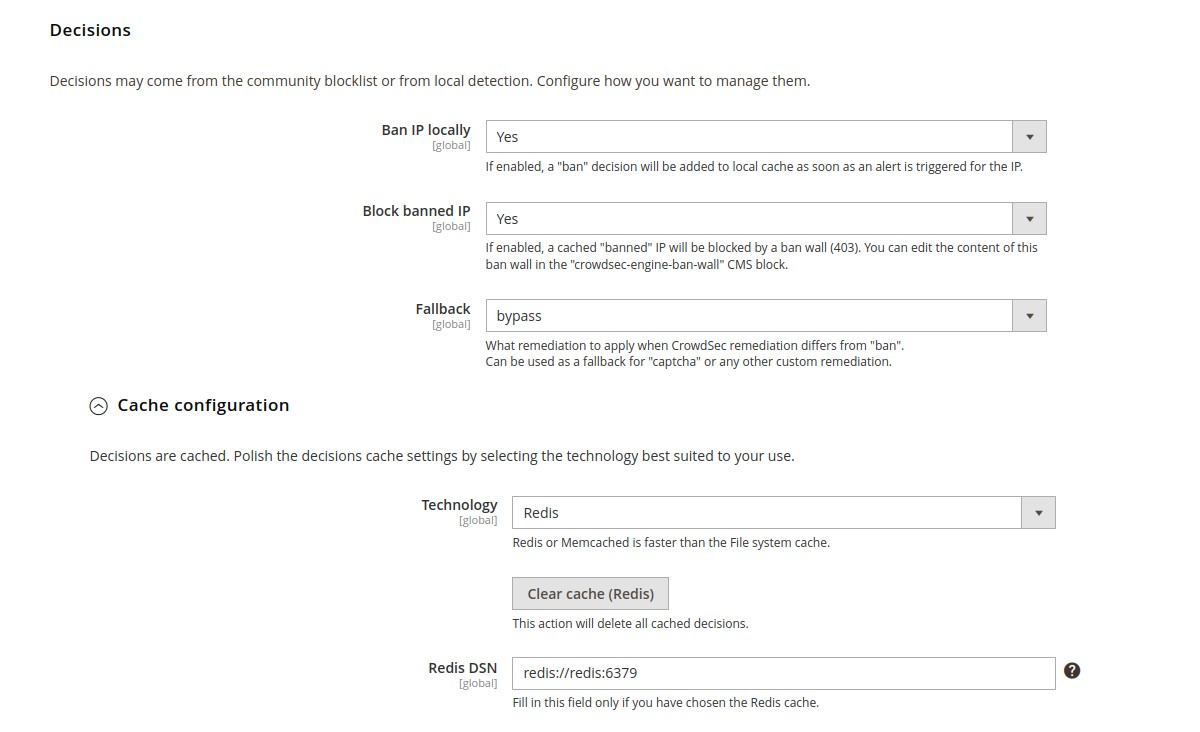
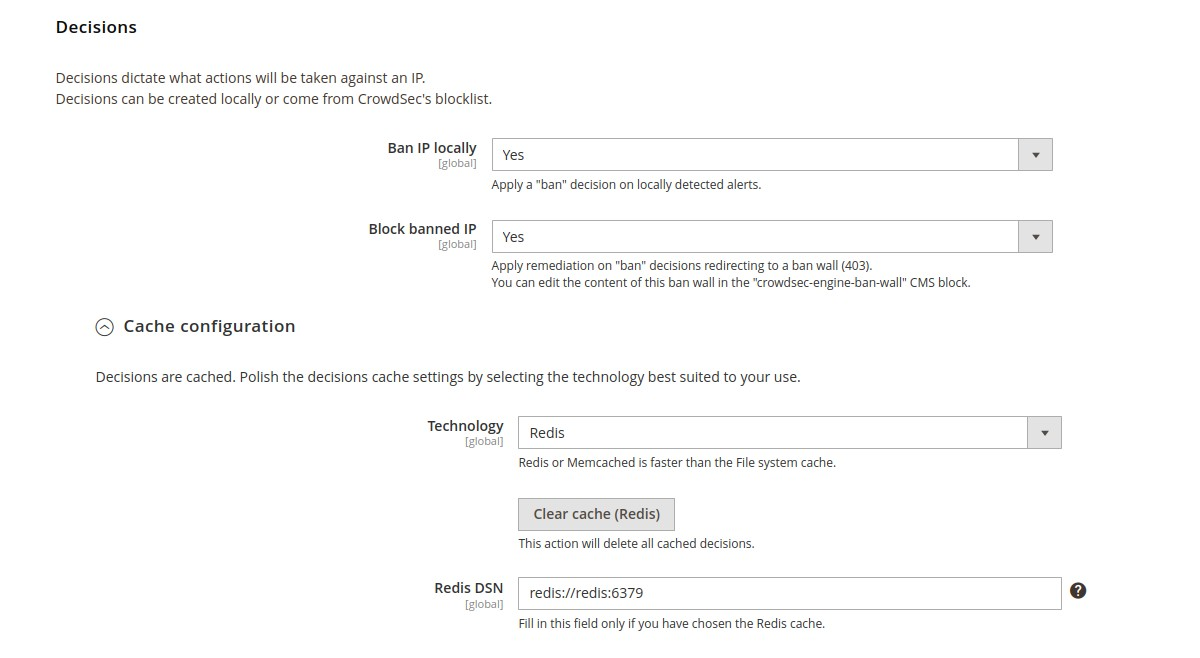
feat(*): Remove fallback setting and prepare release 1.0.0

diff --git a/Test/EndToEnd/__tests__/reports.test.ts b/Test/EndToEnd/__tests__/reports.test.ts
@@ -9,28 +9,23 @@ import {
 } from "../helpers/constants";
 
 test.describe("Reports page", () => {
-  test("can set default config", async ({
-    adminCrowdSecSecurityConfigPage,
-  }) => {
-    await adminCrowdSecSecurityConfigPage.navigateTo();
-    await adminCrowdSecSecurityConfigPage.setDefaultConfig();
-  });
   test("can see default settings", async ({
     adminCrowdSecSecurityReportPage,
+    adminCrowdSecSecurityConfigPage,
     page,
     runActionPage,
   }) => {
     await runActionPage.clearCache();
+    await adminCrowdSecSecurityConfigPage.navigateTo();
+    await adminCrowdSecSecurityConfigPage.setDefaultConfig();
     await adminCrowdSecSecurityReportPage.navigateTo();
     await expect(
       page.locator("#crowdsec-engine-remediation-metrics")
-    ).toHaveText(/Ban IP locally setting is enabled/);
+    ).toHaveText(/Ban IP locally enabled/);
     await expect(
       page.locator("#crowdsec-engine-remediation-metrics")
-    ).toHaveText(/Block banned IP setting is enabled/);
-    await expect(
-      page.locator("#crowdsec-engine-remediation-metrics")
-    ).toHaveText(/Fallback setting is bypass/);
+    ).toHaveText(/Block banned IP enabled/);
+
     // Local decision should be 0
     await expect(
       page.locator("#crowdsec-engine-metrics tbody tr:first-child td.count")
@@ -61,21 +56,14 @@ test.describe("Reports page", () => {
       .getByRole("combobox", { name: "[GLOBAL] Block banned IP" })
       .selectOption("0");
 
-    await page
-      .getByRole("combobox", { name: "[GLOBAL] Fallback" })
-      .selectOption("ban");
-
     await adminCrowdSecSecurityConfigPage.saveConfig();
     await adminCrowdSecSecurityReportPage.navigateTo();
     await expect(
       page.locator("#crowdsec-engine-remediation-metrics")
-    ).toHaveText(/Ban IP locally setting is disabled/);
+    ).toHaveText(/Ban IP locally disabled/);
     await expect(
       page.locator("#crowdsec-engine-remediation-metrics")
-    ).toHaveText(/Block banned IP setting is disabled/);
-    await expect(
-      page.locator("#crowdsec-engine-remediation-metrics")
-    ).toHaveText(/Fallback setting is ban/);
+    ).toHaveText(/Block banned IP disabled/);
   });
 
   test("can see count incrementation for local decision", async ({
@@ -91,9 +79,6 @@ test.describe("Reports page", () => {
       .getByRole("combobox", { name: "[GLOBAL] Block banned IP" })
       .selectOption("1");
 
-    await page
-      .getByRole("combobox", { name: "[GLOBAL] Fallback" })
-      .selectOption("bypass");
     await adminCrowdSecSecurityConfigPage.saveConfig();
     await adminCrowdSecSecurityReportPage.navigateTo();
     // Local decision should be 0
@@ -129,9 +114,6 @@ test.describe("Reports page", () => {
       .getByRole("combobox", { name: "[GLOBAL] Block banned IP" })
       .selectOption("1");
 
-    await page
-      .getByRole("combobox", { name: "[GLOBAL] Fallback" })
-      .selectOption("bypass");
     await adminCrowdSecSecurityConfigPage.saveConfig();
     await adminCrowdSecSecurityReportPage.navigateTo();
     // Community Blocklist decision should be 0
@@ -167,9 +149,6 @@ test.describe("Reports page", () => {
       .getByRole("combobox", { name: "[GLOBAL] Block banned IP" })
       .selectOption("1");
 
-    await page
-      .getByRole("combobox", { name: "[GLOBAL] Fallback" })
-      .selectOption("bypass");
     await adminCrowdSecSecurityConfigPage.saveConfig();
     await adminCrowdSecSecurityReportPage.navigateTo();
     // Third party blocklist decision should be 0
@@ -189,6 +168,42 @@ test.describe("Reports page", () => {
       page.locator("#crowdsec-engine-metrics tbody tr:last-child td.count")
     ).toHaveText("1");
     // Clear cache for next tests
+    await runActionPage.clearCache();
+  });
+
+  test("can see count incrementation for local decision with unhandled remediation", async ({
+    adminCrowdSecSecurityConfigPage,
+    adminCrowdSecSecurityReportPage,
+    runActionPage,
+    page,
+    homePage,
+  }) => {
+    // Reset all
+    await runActionPage.setForcedIp("");
+    await runActionPage.clearCache();
+    // Set config
+    await adminCrowdSecSecurityConfigPage.navigateTo();
+    await adminCrowdSecSecurityConfigPage.setDefaultConfig();
+    await adminCrowdSecSecurityReportPage.navigateTo();
+    // Local decision should be 0
+    await expect(
+      page.locator("#crowdsec-engine-metrics tbody tr:first-child td.count")
+    ).toHaveText("0");
+
+    // Simulate a "unhandled" decision for testIp1
+    await runActionPage.addDecision(testIp1, "unhandled", ORIGIN_CROWDSEC, 60);
+    await runActionPage.setForcedIp(testIp1);
+    // Home page should be accessible as default fallback is bypass
+    await homePage.navigateTo();
+    await expect(page.locator("body")).not.toHaveText(blockRegex);
+    await adminCrowdSecSecurityReportPage.navigateTo();
+    // Local decision should be 1
+    await expect(
+      page.locator("#crowdsec-engine-metrics tbody tr:first-child td.count")
+    ).toHaveText("1");
+
+    // Clear cache for next tests and reinit forced test ip
+    await runActionPage.setForcedIp("");
     await runActionPage.clearCache();
   });
 });

diff --git a/Test/EndToEnd/__tests__/config.test.ts b/Test/EndToEnd/__tests__/config.test.ts
@@ -1,6 +1,5 @@
 // @ts-check
-import { test, expect } from "../fixtures";
-import { testIp1, ORIGIN_CROWDSEC, blockRegex } from "../helpers/constants";
+import { test } from "../fixtures";
 
 test.describe("Extension configuration", () => {
   test.beforeEach(async ({ adminCrowdSecSecurityConfigPage }) => {
@@ -25,53 +24,5 @@ test.describe("Extension configuration", () => {
 
   test("should refresh cache", async ({ adminCrowdSecSecurityConfigPage }) => {
     await adminCrowdSecSecurityConfigPage.refreshCache();
-  });
-});
-
-test.describe("Fallback remediation setting", () => {
-  test("can see count incrementation for local decision with unhandled remediation", async ({
-    adminCrowdSecSecurityConfigPage,
-    adminCrowdSecSecurityReportPage,
-    runActionPage,
-    page,
-    homePage,
-  }) => {
-    // Reset all
-    await runActionPage.setForcedIp("");
-    await runActionPage.clearCache();
-    // Set config
-    await adminCrowdSecSecurityConfigPage.navigateTo();
-    await adminCrowdSecSecurityConfigPage.setDefaultConfig();
-    await adminCrowdSecSecurityReportPage.navigateTo();
-    // Local decision should be 0
-    await expect(
-      page.locator("#crowdsec-engine-metrics tbody tr:first-child td.count")
-    ).toHaveText("0");
-
-    // Simulate a "unhandled" decision for testIp1
-    await runActionPage.addDecision(testIp1, "unhandled", ORIGIN_CROWDSEC, 60);
-    await runActionPage.setForcedIp(testIp1);
-    // Home page should be accessible as default fallback is bypass
-    await homePage.navigateTo();
-    await expect(page.locator("body")).not.toHaveText(blockRegex);
-    await adminCrowdSecSecurityReportPage.navigateTo();
-    // Local decision should be 1
-    await expect(
-      page.locator("#crowdsec-engine-metrics tbody tr:first-child td.count")
-    ).toHaveText("1");
-
-    await adminCrowdSecSecurityConfigPage.navigateTo();
-    await page
-      .getByRole("combobox", { name: "[GLOBAL] Fallback" })
-      .selectOption("ban");
-
-    await adminCrowdSecSecurityConfigPage.saveConfig(false);
-    // Home page should be blocked as fallback is now ban
-    await homePage.navigateTo(false);
-    await expect(page.locator("body")).toHaveText(blockRegex);
-
-    // Clear cache for next tests and reinit forced test ip
-    await runActionPage.setForcedIp("");
-    await runActionPage.clearCache();
   });
 });

diff --git a/Test/EndToEnd/pageObjects/luma/admin/crowdsec-security-config.ts b/Test/EndToEnd/pageObjects/luma/admin/crowdsec-security-config.ts
@@ -36,10 +36,6 @@ export default class CrowdSecSecurityConfigPage {
       .selectOption("1");
 
     await this.page
-      .getByRole("combobox", { name: "[GLOBAL] Fallback" })
-      .selectOption("bypass");
-
-    await this.page
       .getByRole("combobox", { name: "[GLOBAL] Technology" })
       .selectOption("phpfs");
 

diff --git a/Constants.php b/Constants.php
@@ -49,5 +49,5 @@ class Constants extends CapiConstants
     /** @var string The user agent suffix used to send request to CAPI */
     public const USER_AGENT_SUFFIX = 'magento2';
     /** @var string The last version of this module */
-    public const VERSION = 'v0.3.0';
+    public const VERSION = 'v1.0.0';
 }

diff --git a/CHANGELOG.md b/CHANGELOG.md
@@ -6,6 +6,16 @@ and this project adheres to [Semantic Versioning](https://semver.org/spec/v2.0.0
 
 ---
 
+## [1.0.0](https://github.com/crowdsecurity/magento-cs-extension/releases/tag/v1.0.0) - 2023-08-22
+[_Compare with previous release_](https://github.com/crowdsecurity/magento-cs-extension/compare/v0.3.0...v1.0.0)
+
+
+### Removed
+
+- Remove fallback remediation setting and always use `bypass` as fallback
+
+---
+
 ## [0.3.0](https://github.com/crowdsecurity/magento-cs-extension/releases/tag/v0.3.0) - 2023-08-21
 [_Compare with previous release_](https://github.com/crowdsecurity/magento-cs-extension/compare/v0.2.0...v0.3.0)
 

diff --git a/doc/USER_GUIDE.md b/doc/USER_GUIDE.md
@@ -205,13 +205,6 @@ By default, it will have the following design and content:
 
 ***
 
-`Decisions → Fallback` (`global` scope)
-
-What remediation to apply when CrowdSec remediation differs from `ban` : `bypass` or `ban`.
-Can be used as a fallback for `captcha` or any other custom remediation.
-
-
-***
 
 `Decisions → Cache configuration → Technology` (`global` scope)
 
